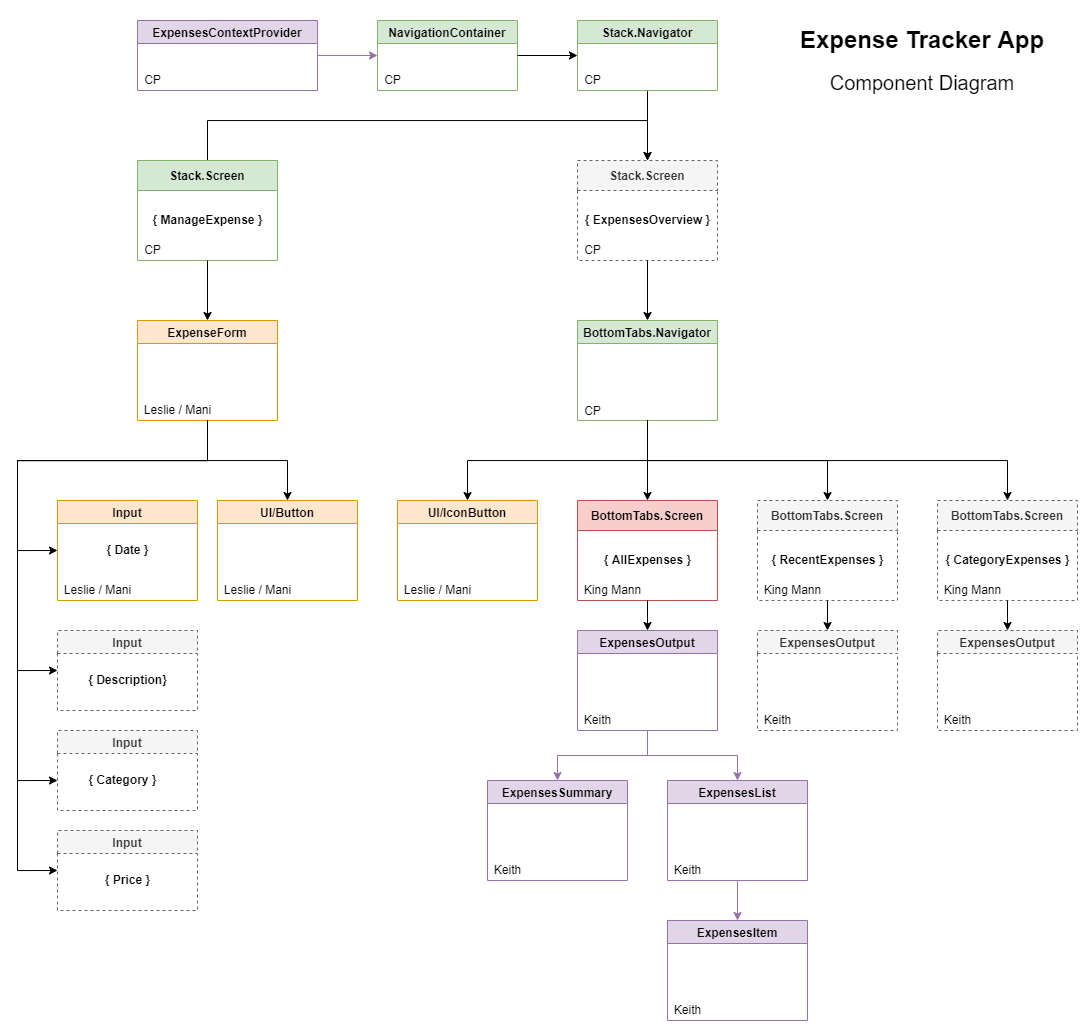
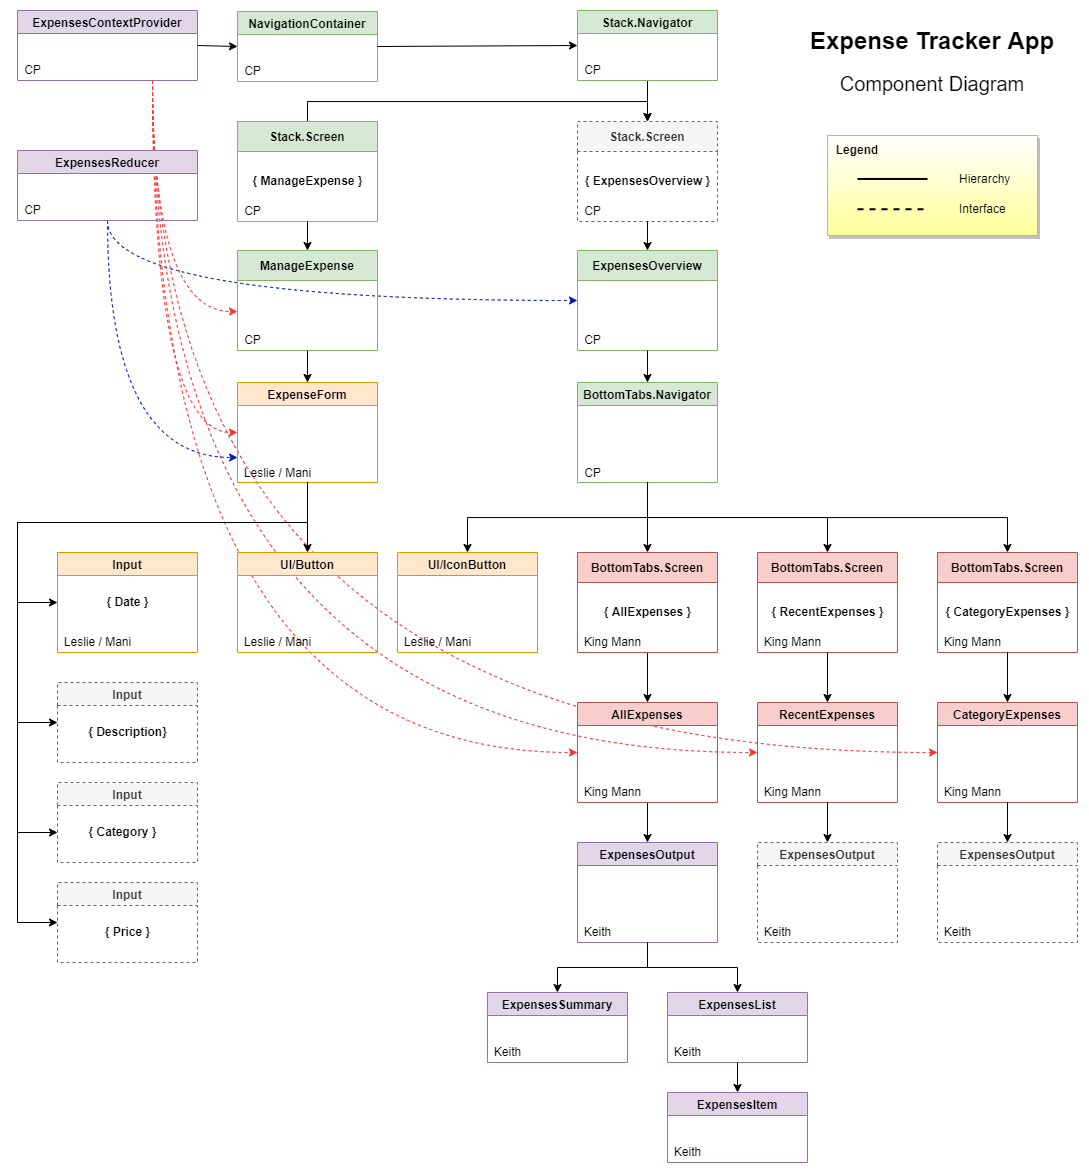
v1.2

diff --git a/ExpenseTrackerApp/reducers/ExpensesReducer.js b/ExpenseTrackerApp/reducers/ExpensesReducer.js
@@ -1,0 +1,59 @@
+/*----  
+  Reducers for expense context methods
+----*/
+
+import { v4 as uuid } from 'uuid';
+
+// Import dispatch constants {action.type} into consumer components
+export const ADD_EXPENSE = 'ADD_EXPENSE'
+export const REMOVE_EXPENSE = 'REMOVE_EXPENSE'
+export const EDIT_EXPENSE = 'EDIT_EXPENSE'
+
+/*
+  Reducer function receives 2 arguments:
+    1. state -> current state passed from context
+    2. action -> { type, payload }
+  
+  Payload content changes according to action type
+*/
+
+function ExpensesReducer(state, action) {
+  switch (action.type) {
+    
+    // payload -> new expense data
+    
+    case ADD_EXPENSE:
+      const newId = uuid();
+      return [{...action.payload, id: newId}, ...state]
+
+    // payload.id   -> ID of item to edit
+    // payload.data -> edited expense data
+    
+    case EDIT_EXPENSE:
+      // 1. Find the index for editing
+      const updateIndex = state.findIndex(
+        (expense) => expense.id === action.payload.id
+      )
+      // 2. Copy the item for editing
+      const updateExpense = state[updateIndex]
+      // 3. Over-write new data into update item
+      const updateItem = { ...updateExpense, ...action.payload.data }
+      // 4. Copy the entire state array
+      const updatedExpenses = [...state]
+      // 5. Replace the updated item in the array
+      updatedExpenses[updateIndex] = updateItem
+      // 6. Replace the the newly edited array
+      return updatedExpenses
+
+    // payload -> ID of item to delete
+    
+    case REMOVE_EXPENSE:
+      // Copy all items in state array, EXCEPT for the id item
+      // indicated in action.payload
+      return state.filter((expense) => expense.id !== action.payload)
+        
+    default:
+      return state;
+  }
+}
+export default ExpensesReducer

diff --git a/ExpenseTrackerApp/store/ExpensesContext.js b/ExpenseTrackerApp/store/ExpensesContext.js
@@ -1,0 +1,69 @@
+/*----  
+  Global context
+----*/
+
+import { createContext, useReducer } from 'react';
+
+import { ExpensesReducer } from '../reducers/ExpensesReducer';
+
+// Example data
+const DUMMY_EXPENSES = [
+  {
+    id: '1',
+    description: 'Shoes',
+    amount: 59.99,
+    date: new Date('2022-02-19'),
+  },
+  {
+    id: '2',
+    description: 'Trousers',
+    amount: 89.99,
+    date: new Date('2022-01-05'),
+  },
+  {
+    id: '3',
+    description: 'Bananas',
+    amount: 7.59,
+    date: new Date('2022-04-17'),
+  },
+  {
+    id: '4',
+    description: 'Book',
+    amount: 18.65,
+    date: new Date('2022-04-17'),
+  },
+  {
+    id: '5',
+    description: 'Pencils',
+    amount: 2.5,
+    date: new Date('2022-04-18'),
+  },
+  {
+    id: '6',
+    description: 'Apple Pie',
+    amount: 7.99,
+    date: new Date('2022-04-05'),
+  },
+  {
+    id: '7',
+    description: 'Bread',
+    amount: 2.99,
+    date: new Date('2022-04-05'),
+  },
+];
+
+// Create context objext
+export const ExpensesContext = createContext()
+
+function ExpensesContextProvider({ children }) {
+  const [expenses, dispatch] = useReducer(
+    ExpensesReducer, DUMMY_EXPENSES)
+  
+  return (
+    <ExpensesContext.Provider value={{expenses, dispatch}}>
+      {children}
+    </ExpensesContext.Provider>
+  )
+}
+
+export default ExpensesContextProvider

diff --git a/ExpenseTrackerApp/App.js b/ExpenseTrackerApp/App.js
@@ -15,7 +15,7 @@ import { StatusBar } from 'expo-status-bar';
 import { NavigationContainer } from '@react-navigation/native';
 
 import { GlobalColors } from './utilities/colors';
-import ExpensesContextProvider from './store/expenses-context';
+import ExpensesContextProvider from './store/ExpensesContext';
 import ExpensesOverview from './screens/ExpensesOverview';
 import ManageExpense from './screens/ManageExpense';
 
